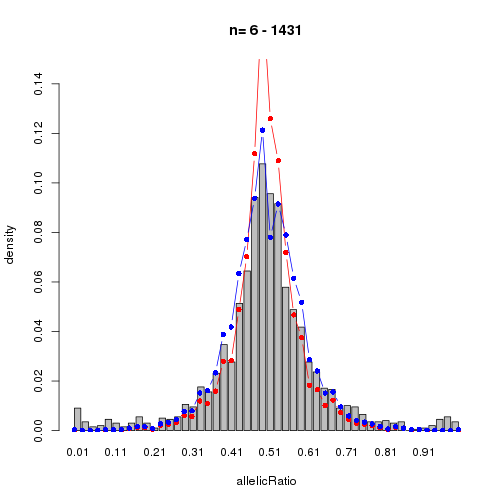
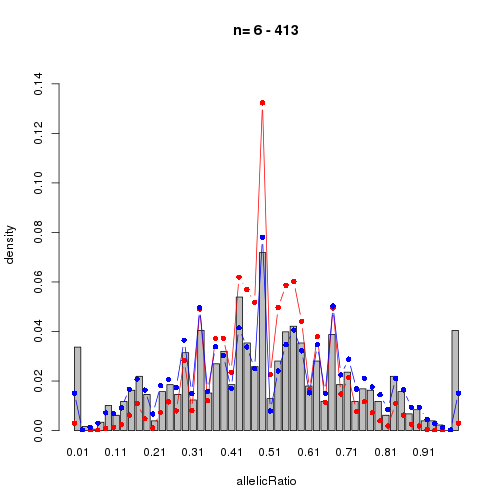
duh

Changed region(s): [[0.119, 0.119, 0.9226, 0.8631], [0.4464, 0.0298, 0.5952, 0.0893]]

diff --git a/vignettes/npbin-dnase.md b/vignettes/npbin-dnase.md
@@ -1,5 +1,5 @@
 ---
-title: "Estimate overdispersion on the ctcf dataset from the NPBin paper"
+title: "Estimate overdispersion on the dnase dataset from the NPBin paper"
 author: "Anthony Aylward"
 date: "2018-08-02"
 output: rmarkdown::html_vignette
@@ -20,21 +20,21 @@ package.
 ```r
 library(chenimbalance)
 library(npbin)
-total_reads <- ctcf[["m"]]
+total_reads <- dnase[["m"]]
 data <- data.frame(
   total = total_reads,
-  allelicRatio =  ctcf[["xm"]] / ctcf[["m"]]
+  allelicRatio =  dnase[["xm"]] / dnase[["m"]]
 )
 data <- data[total_reads >= 5,]
 data <- data[1:2000,]
 head(data)
 #>   total allelicRatio
-#> 1   190    0.5368421
-#> 2   185    0.4864865
-#> 3    16    0.5625000
-#> 4   375    0.2640000
-#> 5    22    1.0000000
-#> 6    40    0.6750000
+#> 1    26    0.4230769
+#> 2     7    0.7142857
+#> 3    54    0.4259259
+#> 4    31    0.6129032
+#> 5    10    0.8000000
+#> 6    13    0.2307692
 ```
 
 ## Empirical distribution
@@ -79,7 +79,7 @@ weighted expected binomial distribution.
 ```r
 sse <- sum((empirical - d_combined_sorted_binned[,2])^2)
 sse
-#> [1] 0.007432315
+#> [1] 0.01021275
 ```
 
 Choose the overdispersion parameter for the beta-binomial distribution
@@ -94,13 +94,13 @@ overdispersion_details <- choose_overdispersion_parameter(
   sse
 )
 head(overdispersion_details[["b_and_sse"]])
-#>        b         sse
-#> [1,] 0.0 0.007432315
-#> [2,] 0.1 0.015246404
-#> [3,] 0.2 0.024126144
-#> [4,] 0.0 0.000000000
-#> [5,] 0.0 0.000000000
-#> [6,] 0.0 0.000000000
+#>        b          sse
+#> [1,] 0.0 0.0102127465
+#> [2,] 0.1 0.0006422622
+#> [3,] 0.2 0.0014597917
+#> [4,] 0.0 0.0000000000
+#> [5,] 0.0 0.0000000000
+#> [6,] 0.0 0.0000000000
 ```
 
 Generate a plot of the weighted expected binomial and weighted expected 
@@ -132,7 +132,7 @@ paste(
   ", SSE_chosen =",
   overdispersion_details[["sse"]]
 )
-#> [1] "b_chosen = 0.1 , SSE_chosen = 0.0152464044437993"
+#> [1] "b_chosen = 0.1 , SSE_chosen = 0.000642262182221375"
 ```
 
 Optimize the overdispersion parameter
@@ -171,10 +171,10 @@ list(
   sse = optimized_overdispersion_details[["sse"]]
 )
 #> $b
-#> [1] 0.008984375
+#> [1] 0.1109375
 #> 
 #> $sse
-#> [1] 0.001672135
+#> [1] 0.0006221425
 ```
 
 Plot the parameter search space
